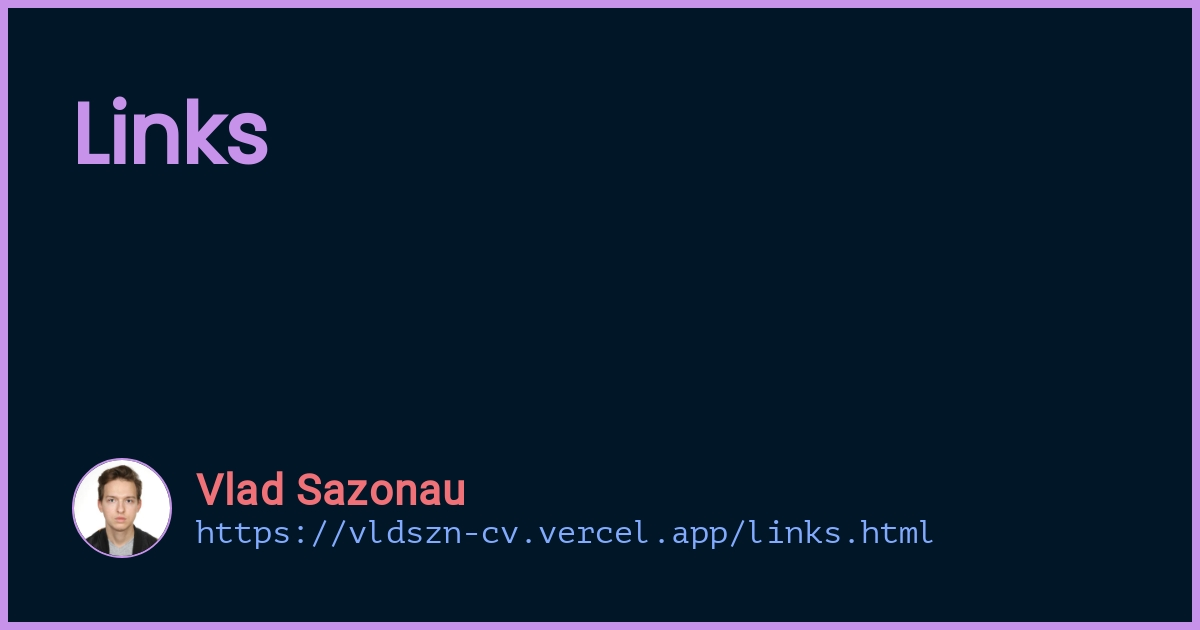
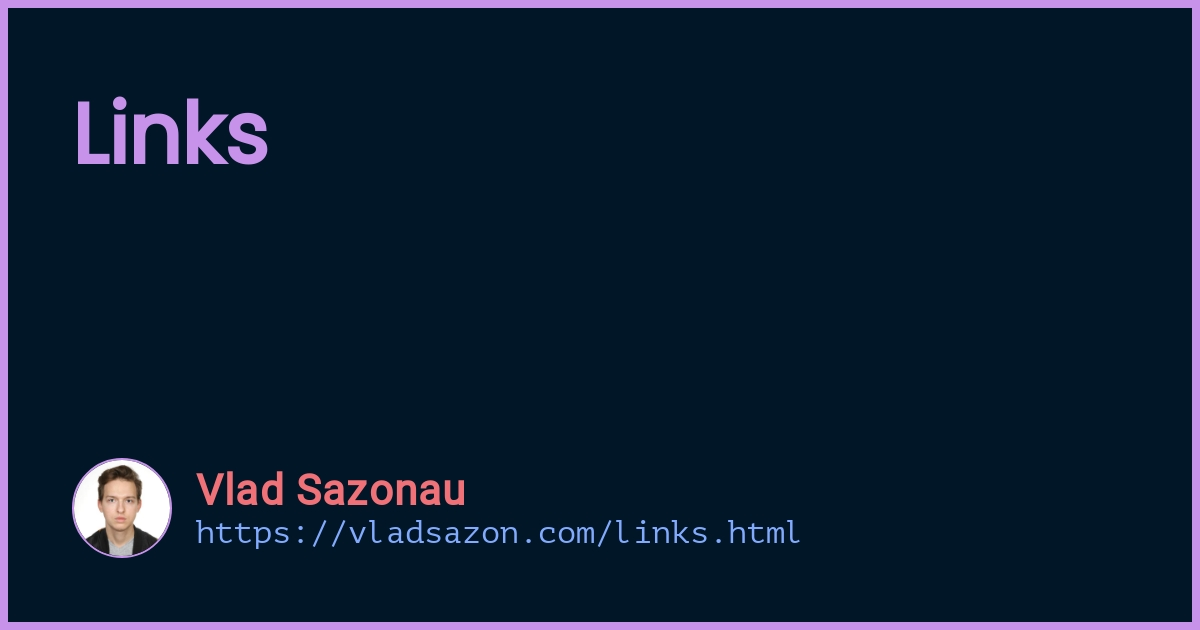
chore: update prod domain links

Changed region(s): [[0.3083, 0.8143, 0.7708, 0.8746]]

diff --git a/e2e/e2e.test.js b/e2e/e2e.test.js
@@ -2,7 +2,7 @@
 import { test, expect } from "@playwright/test";
 import { PromisePool } from "@supercharge/promise-pool";
 
-const BASE_URL = process.env.BASE_URL || `https://vldszn-cv.vercel.app`;
+const BASE_URL = process.env.BASE_URL || `https://vladsazon.com`;
 
 test("/index.html", async ({ page }) => {
   // Go to the main page of the site (/index.html)
@@ -40,8 +40,7 @@ test("/index.html", async ({ page }) => {
     .locator('meta[property="og:image"]')
     .getAttribute("content");
 
-  const OG_IMAGE_INDEX_URL =
-    "https://vldszn-cv.vercel.app/assets/og-about-me.jpeg";
+  const OG_IMAGE_INDEX_URL = "https://vladsazon.com/assets/og-about-me.jpeg";
 
   expect(ogImageUrl).toBe(OG_IMAGE_INDEX_URL);
 
@@ -138,8 +137,7 @@ test("/links.html", async ({ page }) => {
     "Vlad Sazonau personal website and blog. Links."
   );
 
-  const OG_IMAGE_LINKS_URL =
-    "https://vldszn-cv.vercel.app/assets/og-links.jpeg";
+  const OG_IMAGE_LINKS_URL = "https://vladsazon.com/assets/og-links.jpeg";
 
   const ogImageUrl = await page
     .locator('meta[property="og:image"]')
@@ -397,8 +395,7 @@ test("/videos.html", async ({ page }) => {
     "Vlad Sazonau personal website and blog. Videos."
   );
 
-  const OG_IMAGE_VIDEOS_URL =
-    "https://vldszn-cv.vercel.app/assets/og-videos.jpeg";
+  const OG_IMAGE_VIDEOS_URL = "https://vladsazon.com/assets/og-videos.jpeg";
 
   const ogImageUrl = await page
     .locator('meta[property="og:image"]')

diff --git a/www/index.html b/www/index.html
@@ -34,10 +34,10 @@
     />
     <meta
       property="og:image"
-      content="https://vldszn-cv.vercel.app/assets/og-about-me.jpeg"
+      content="https://vladsazon.com/assets/og-about-me.jpeg"
     />
     <meta property="og:site_name" content="Vlad Sazonau | About me" />
-    <meta property="og:url" content="https://vldszn-cv.vercel.app" />
+    <meta property="og:url" content="https://vladsazon.com" />
 
     <meta name="twitter:card" content="summary_large_image" />
     <meta name="twitter:title" content="About me" />
@@ -51,7 +51,7 @@
     />
     <meta
       name="twitter:image"
-      content="https://vldszn-cv.vercel.app/assets/og-about-me.jpeg"
+      content="https://vladsazon.com/assets/og-about-me.jpeg"
     />
   </head>
 

diff --git a/www/videos.html b/www/videos.html
@@ -49,10 +49,10 @@
     />
     <meta
       property="og:image"
-      content="https://vldszn-cv.vercel.app/assets/og-videos.jpeg"
+      content="https://vladsazon.com/assets/og-videos.jpeg"
     />
     <meta property="og:site_name" content="Vlad Sazonau | Videos" />
-    <meta property="og:url" content="https://vldszn-cv.vercel.app" />
+    <meta property="og:url" content="https://vladsazon.com" />
 
     <meta name="twitter:card" content="summary_large_image" />
     <meta name="twitter:title" content="Videos" />
@@ -66,7 +66,7 @@
     />
     <meta
       name="twitter:image"
-      content="https://vldszn-cv.vercel.app/assets/og-videos.jpeg"
+      content="https://vladsazon.com/assets/og-videos.jpeg"
     />
 
     <style>

diff --git a/www/links.html b/www/links.html
@@ -34,10 +34,10 @@
     />
     <meta
       property="og:image"
-      content="https://vldszn-cv.vercel.app/assets/og-links.jpeg"
+      content="https://vladsazon.com/assets/og-links.jpeg"
     />
     <meta property="og:site_name" content="Vlad Sazonau | Links" />
-    <meta property="og:url" content="https://vldszn-cv.vercel.app" />
+    <meta property="og:url" content="https://vladsazon.com" />
 
     <meta name="twitter:card" content="summary_large_image" />
     <meta name="twitter:title" content="Links" />
@@ -51,7 +51,7 @@
     />
     <meta
       name="twitter:image"
-      content="https://vldszn-cv.vercel.app/assets/og-links.jpeg"
+      content="https://vladsazon.com/assets/og-links.jpeg"
     />
   </head>
 

diff --git a/README.md b/README.md
@@ -12,6 +12,7 @@ https://vercel.com/vladsazon27s-projects/html-cv
 
 ## Prod URL
 
+https://vladsazon.com
 https://vldszn-cv.vercel.app
 
 ## Link Management
